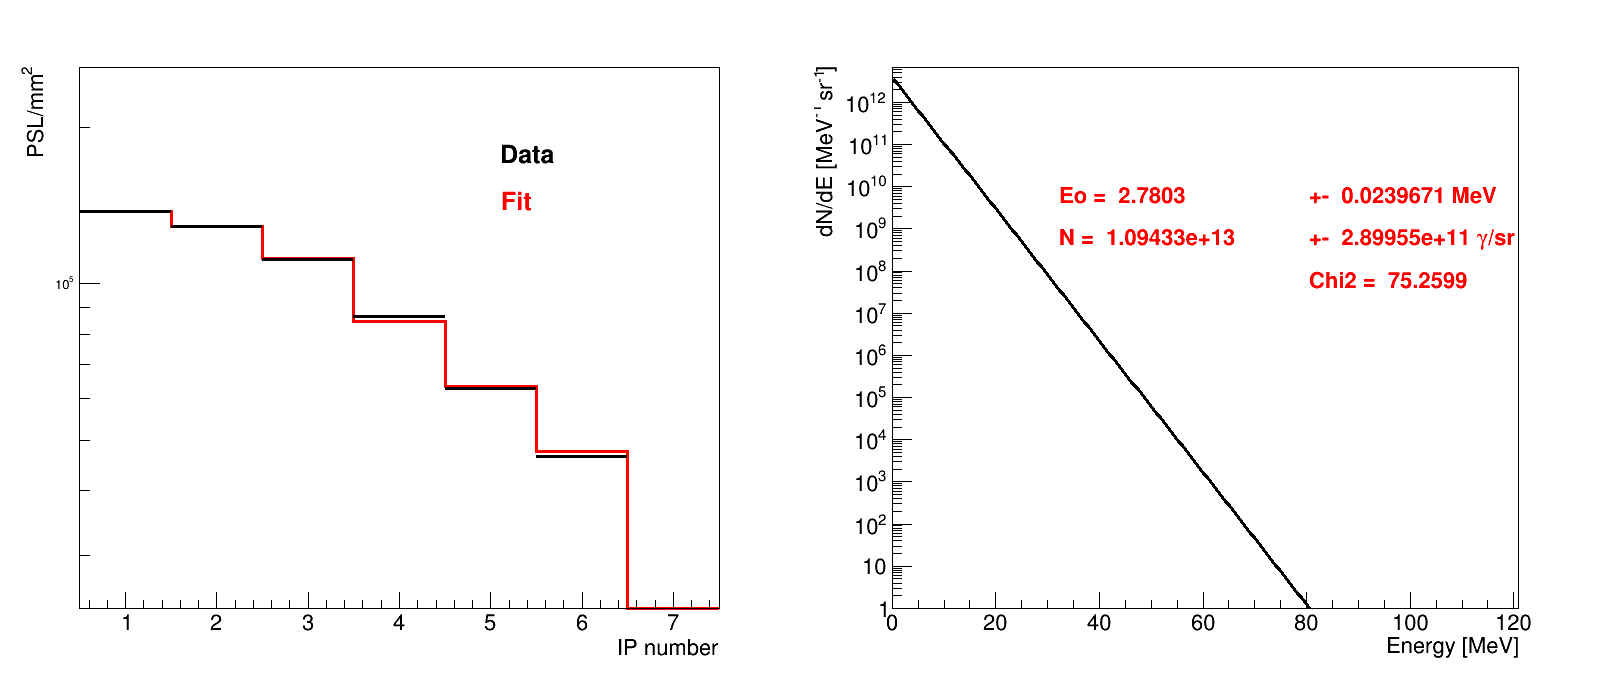
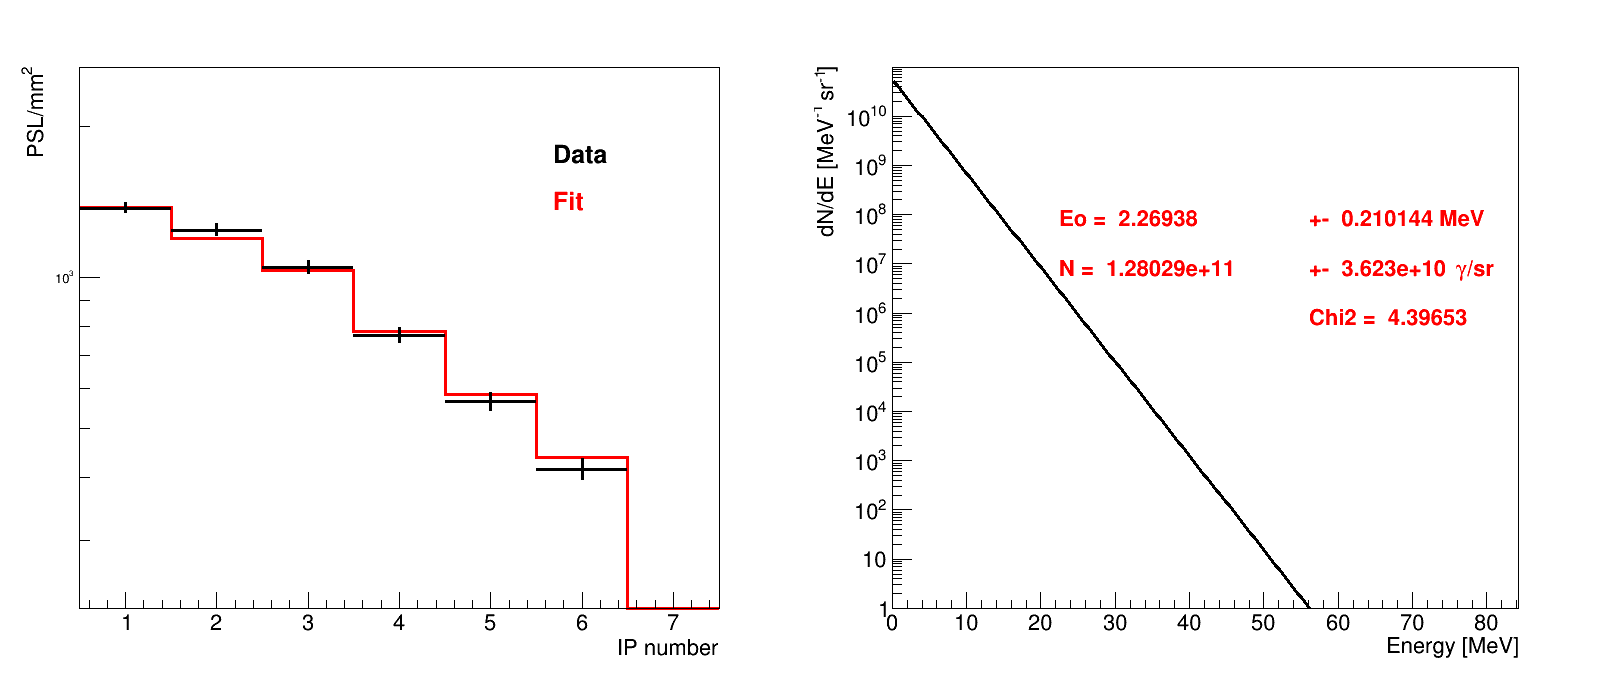
Commit #5 [CEDRIC_GSI.0.3.0] le 09/01/2024 - Passage du code sur la version 11.2.0 de GEANT4 - Passage de Atom vers Visual Code Studio avec notamment création d'une branche save permettant de push les changements d'une journée avant demerge sur la branche principale

diff --git a/Reconstruction_temperature_CEDRIC.cc b/Reconstruction_temperature_CEDRIC.cc
@@ -8,52 +8,61 @@ void Reconstruction_temperature_CEDRIC()
   float solid_angle2 = 0.00815;
 
   //SHOT GSI
-
-  Routine_Analyse("Analyses_MultiGauge/Mesures_Shot_1_A.txt", "Mesures_Shot_1_A", Calib_PSL, solid_angle1);
   
-  Routine_Analyse("Analyses_MultiGauge/Mesures_Shot_648_A.txt", "Mesures_Shot_648_A", Calib_PSL, solid_angle1);
+  //Routine_Analyse("Analyses_MultiGauge/Mesures_Shot_1_A.txt", "Mesures_Shot_1_A", Calib_PSL, solid_angle1, 46.79);
+  
+  //Routine_Analyse("Analyses_MultiGauge/Mesures_Shot_648_A.txt", "Mesures_Shot_648_A", Calib_PSL, solid_angle1, 10.38);
 
-  Routine_Analyse("Analyses_MultiGauge/Mesures_Shot_649_A.txt", "Mesures_Shot_649_A", Calib_PSL, solid_angle1);
+  //Routine_Analyse("Analyses_MultiGauge/Mesures_Shot_649_A.txt", "Mesures_Shot_649_A", Calib_PSL, solid_angle1, 12.14);
 
-  Routine_Analyse("Analyses_MultiGauge/Mesures_Shot_650_A.txt", "Mesures_Shot_650_A", Calib_PSL, solid_angle1);
+  //Routine_Analyse("Analyses_MultiGauge/Mesures_Shot_650_A.txt", "Mesures_Shot_650_A", Calib_PSL, solid_angle1, 11.57);
 
-  Routine_Analyse("Analyses_MultiGauge/Mesures_Shot_655_A.txt", "Mesures_Shot_655_A", Calib_PSL, solid_angle1);
+  //Routine_Analyse("Analyses_MultiGauge/Mesures_Shot_655_A.txt", "Mesures_Shot_655_A", Calib_PSL, solid_angle1, 16.85);
 
-  Routine_Analyse("Analyses_MultiGauge/Mesures_Shot_657_A.txt", "Mesures_Shot_657_A", Calib_PSL, solid_angle1);
+  //Routine_Analyse("Analyses_MultiGauge/Mesures_Shot_657_A.txt", "Mesures_Shot_657_A", Calib_PSL, solid_angle1, 11.57);
 
-  Routine_Analyse("Analyses_MultiGauge/Mesures_Shot_659_A.txt", "Mesures_Shot_659_A", Calib_PSL, solid_angle1);
+  //Routine_Analyse("Analyses_MultiGauge/Mesures_Shot_659_A.txt", "Mesures_Shot_659_A", Calib_PSL, solid_angle1, 21.47);
 
-  Routine_Analyse("Analyses_MultiGauge/Mesures_Shot_663_A.txt", "Mesures_Shot_663_A", Calib_PSL, solid_angle1);
+  //Routine_Analyse("Analyses_MultiGauge/Mesures_Shot_663_A.txt", "Mesures_Shot_663_A", Calib_PSL, solid_angle1, 14.05);
 
-  Routine_Analyse("Analyses_MultiGauge/Mesures_Shot_667_A.txt", "Mesures_Shot_667_A", Calib_PSL, solid_angle1);
+  //Routine_Analyse("Analyses_MultiGauge/Mesures_Shot_667_A.txt", "Mesures_Shot_667_A", Calib_PSL, solid_angle1, 17.58);
 
-  Routine_Analyse("Analyses_MultiGauge/Mesures_Shot_671_A.txt", "Mesures_Shot_671_A", Calib_PSL, solid_angle1);
+  //Routine_Analyse("Analyses_MultiGauge/Mesures_Shot_671_A.txt", "Mesures_Shot_671_A", Calib_PSL, solid_angle1, 16.09);
 
-  Routine_Analyse("Analyses_MultiGauge/Mesures_Shot_674_A.txt", "Mesures_Shot_674_A", Calib_PSL, solid_angle1);
+  //Routine_Analyse("Analyses_MultiGauge/Mesures_Shot_674_A.txt", "Mesures_Shot_674_A", Calib_PSL, solid_angle1, 21.46);
 
-  Routine_Analyse("Analyses_MultiGauge/Mesures_Shot_677_A.txt", "Mesures_Shot_677_A", Calib_PSL, solid_angle1);
+  //Routine_Analyse("Analyses_MultiGauge/Mesures_Shot_677_A.txt", "Mesures_Shot_677_A", Calib_PSL, solid_angle1, 14.05);
 
-  Routine_Analyse("Analyses_MultiGauge/Mesures_Shot_678_A.txt", "Mesures_Shot_678_A", Calib_PSL, solid_angle1);
+  //Routine_Analyse("Analyses_MultiGauge/Mesures_Shot_678_A.txt", "Mesures_Shot_678_A", Calib_PSL, solid_angle1, 24.87);
 
-  Routine_Analyse("Analyses_MultiGauge/Mesures_Shot_684_A.txt", "Mesures_Shot_684_A", Calib_PSL, solid_angle1);
+  //Routine_Analyse("Analyses_MultiGauge/Mesures_Shot_684_A.txt", "Mesures_Shot_684_A", Calib_PSL, solid_angle1, 14.74);
 
-  Routine_Analyse("Analyses_MultiGauge/Mesures_Shot_687_A.txt", "Mesures_Shot_687_A", Calib_PSL, solid_angle1);
+  //Routine_Analyse("Analyses_MultiGauge/Mesures_Shot_687_A.txt", "Mesures_Shot_687_A", Calib_PSL, solid_angle1, 19.87);
 
-  Routine_Analyse("Analyses_MultiGauge/Mesures_Shot_688_A.txt", "Mesures_Shot_688_A", Calib_PSL, solid_angle1);
+  //Routine_Analyse("Analyses_MultiGauge/Mesures_Shot_688_A.txt", "Mesures_Shot_688_A", Calib_PSL, solid_angle1, 17.56);
 
-  Routine_Analyse("Analyses_MultiGauge/Mesures_Shot_698_A.txt", "Mesures_Shot_698_A", Calib_PSL, solid_angle1);
+  //Routine_Analyse("Analyses_MultiGauge/Mesures_Shot_698_A.txt", "Mesures_Shot_698_A", Calib_PSL, solid_angle1, 24.83);
 
-  Routine_Analyse("Analyses_MultiGauge/Mesures_Shot_700_A.txt", "Mesures_Shot_700_A", Calib_PSL, solid_angle1);
+  //Routine_Analyse("Analyses_MultiGauge/Mesures_Shot_700_A.txt", "Mesures_Shot_700_A", Calib_PSL, solid_angle1, 18.32);
 
-  Routine_Analyse("Analyses_MultiGauge/Mesures_Shot_702_A.txt", "Mesures_Shot_702_A", Calib_PSL, solid_angle1);
+  //Routine_Analyse("Analyses_MultiGauge/Mesures_Shot_702_A.txt", "Mesures_Shot_702_A", Calib_PSL, solid_angle1, 20.67);
 
-  Routine_Analyse("Analyses_MultiGauge/Mesures_Shot_703_A.txt", "Mesures_Shot_703_A", Calib_PSL, solid_angle1);
+  //Routine_Analyse("Analyses_MultiGauge/Mesures_Shot_703_A.txt", "Mesures_Shot_703_A", Calib_PSL, solid_angle1, 16.85);
 
-  Routine_Analyse("Analyses_MultiGauge/Mesures_Shot_704_A.txt", "Mesures_Shot_704_A", Calib_PSL, solid_angle2);
+  //Routine_Analyse("Analyses_MultiGauge/Mesures_Shot_704_A.txt", "Mesures_Shot_704_A", Calib_PSL, solid_angle2, 32.40);
 
-  Routine_Analyse("Analyses_MultiGauge/Mesures_Shot_707_A.txt", "Mesures_Shot_707_A", Calib_PSL, solid_angle2);
-
+  Routine_Analyse("Analyses_MultiGauge/Mesures_Shot_707_A.txt", "Mesures_Shot_707_A", Calib_PSL, solid_angle2, 19.07);
+  
 
   //SHOT ELFIE
+
+  //  Analyse();
+
+  // TF1* f = new TF1("f", "[0]*exp(-(x/1)/[1])", 0, 300);
+  // f->SetParameter(0, e9);
+  // f->SetParameter(1, 1.208);
+  // f->Draw();
+  
+  
 
 }
